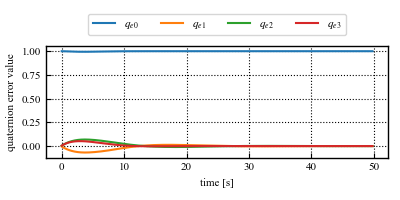
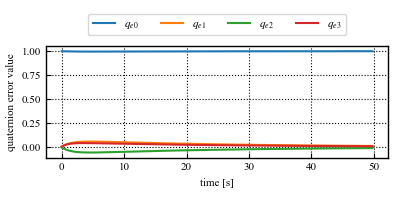
CHANGE: change reward and k, alpha max

diff --git a/td3/environment.py b/td3/environment.py
@@ -145,7 +145,7 @@ class SatelliteContinuousEnv(gym.Env):
         self.omega_count = 0
         
         #報酬パラメータ
-        self.q_weight =  1*5#1*20
+        self.q_weight =  1*8#1*20
         self.w_weight = 1.5*10#1.5*100
         self.action_weight = 0.25#0.25*10
         
@@ -263,9 +263,9 @@ class SatelliteContinuousEnv(gym.Env):
         done_1 = abs(omega[0]) > self.maxOmega \
                 or abs(omega[1]) > self.maxOmega \
                 or abs(omega[2]) > self.maxOmega \
-                # or abs(action[0]) > self.max_torque \
-                # or abs(action[1]) > self.max_torque \
-                # or abs(action[2]) > self.max_torque 
+                or abs(action[0]) > self.max_torque \
+                or abs(action[1]) > self.max_torque \
+                or abs(action[2]) > self.max_torque 
         done_2 = self.nsteps >= self.max_steps
         done_3 = False
         if omega@omega < 1e-5:
@@ -278,22 +278,22 @@ class SatelliteContinuousEnv(gym.Env):
         # 報酬関数
         #--------REWARD---------
         if not done:
-            if max(abs(action)) > self.max_torque:
-                reward = -(self.q_weight*((1-qe_new[0])**2 + qe_new[1:]@qe_new[1:]) + self.w_weight*omega_new@omega_new + 3*action@action) 
-            else:
-                #状態と入力を抑えたい
-                reward = -(self.q_weight*((1-qe_new[0])**2 + qe_new[1:]@qe_new[1:]) + self.w_weight*omega_new@omega_new + self.action_weight*action@action) 
-        
+            # if max(abs(action)) > self.max_torque:
+            #     reward = -(self.q_weight*((1-qe_new[0])**2 + qe_new[1:]@qe_new[1:]) + self.w_weight*omega_new@omega_new + 3*action@action) 
+            # else:
+            #状態と入力を抑えたい
+            reward = -(self.q_weight*((1-qe_new[0])**2 + qe_new[1:]@qe_new[1:]) + self.w_weight*omega_new@omega_new + self.action_weight*action@action) 
+    
         elif self.steps_beyond_done is None:
             # epsiode just ended
             self.steps_beyond_done = 0
-            # if bool(done_1):
-            #     reward = -10
-            # else:
+                if bool(done_1):
+                    reward = -1
+                else:
             #     if qe_new[0] >= self.angle_thre:
             #         reward = 30
             #     else:
-            reward = 0
+                reward = 0
         #------------------------
 
         else:
@@ -354,52 +354,3 @@ class SatelliteContinuousEnv(gym.Env):
         self.nsteps = 0  
         self.steps_beyond_done = None
         return obs
-
-    def reset_capture(self):
-        # 初期条件　慣性パラメータ
-        self.inertia = np.array([[2.683, 0.0, 0.0], \
-                                [0.0, 2.683, 0.0], \
-                                [0.0, 0.0, 1.897]])
-        self.multi = np.random.uniform(1, high=5)
-        self.tg_inertia = self.inertia*self.multi
-        self.inertia_comb = self.inertia + self.tg_inertia
-        self.inertia_comb_inv = np.linalg.inv(self.inertia_comb)
-        self.inertia_inv = np.linalg.inv(self.inertia)
-        
-        # 初期状態 角度(deg)　角速度(rad/s)
-        self.startEuler = np.deg2rad(np.array([10,0,0]))
-        self.startQuate = self.dcm2quaternion(self.euler2dcm(self.startEuler))
-        self.startOmega = np.array([0,0,0])
-        
-        # 目標値(deg)
-        self.goalEuler = np.deg2rad(np.array([0,0,0]))
-        self.goalQuate = self.dcm2quaternion(self.euler2dcm(self.goalEuler))
-
-        #エラークオータニオンマトリックス
-        er1 = self.goalQuate[0]
-        er2 = self.goalQuate[1]
-        er3 = self.goalQuate[2]
-        er4 = self.goalQuate[3]
-        self.error_Q = np.array([[er1, er2, er3, er4],
-                                [-er2, er1, er4, -er3],
-                                [-er3, -er4, er1, er2],
-                                [-er4, er3, -er2, er1]])
-        
-        self.errorQuate = self.error_Q@self.startQuate
-
-        #エラークオータニオンの微分
-        self.d_errorQuate = self.quaternion_differential(self.startOmega, self.errorQuate)
-        self.pre_state = np.hstack((self.startQuate,self.startOmega))
-        self.state = np.hstack((self.errorQuate,self.d_errorQuate, self.startOmega))
-
-        obs = self.state
-        # タイムスタンプをリセット
-        self.nsteps = 0  
-        return obs
-
-    def render(self, mode='human'):
-        #do nothing
-        print('rendering currently not supported.')
-
-    def close(self):
-        print('rendering not supported currently.')

diff --git a/td3/utils.py b/td3/utils.py
@@ -52,7 +52,7 @@ def mini_batch_train_adaptive(env, agent, max_episodes, max_steps, batch_size):
     episode_rewards = []
     counter = 0
     k_max = 7
-    alpha_max = 2
+    alpha_max = 1
     d_grad = 2500
     try:
         # with tqdm(range(max_episodes),leave=False) as pbar:

diff --git a/td3/train.py b/td3/train.py
@@ -113,8 +113,8 @@ def evaluate():
         
     max_steps = int(simutime/dt) -1 # dt is 0.1
     alpha = 0.5
-    k_max = 5
-    alpha_max = 1
+    k_max = 7
+    alpha_max = 2
 
     th_e = np.array(env.inertia.flatten())
     with tqdm(range(max_steps),leave=False) as pbar:
